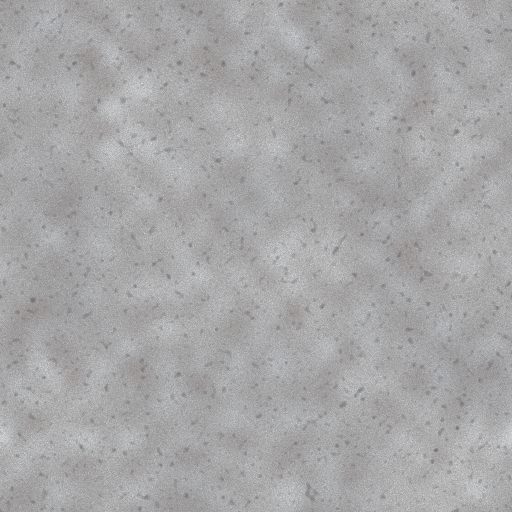
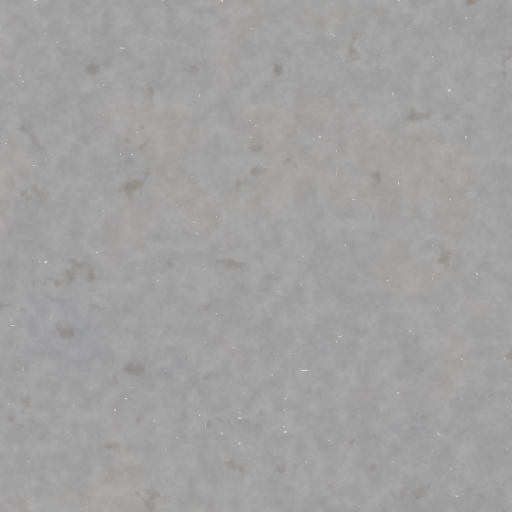
Give the black sand finer grain and tonal breakup.
The beach albedo was one even charcoal. The rebuilt maps add cool and warm patches, fine grain, and scattered lighter grains without touching the height data.

diff --git a/tools/bake_black_sand.py b/tools/bake_black_sand.py
@@ -1,0 +1,106 @@
+#!/usr/bin/env python3
+"""Rebuild the black-sand albedo/height and normal/roughness maps.
+
+Punalu'u-style basalt sand: charcoal with cool and warm patches, fine grain,
+and scattered lighter grains. Alpha of the albedo map is height. Alpha of the
+normal map is roughness. Deterministic; does not touch terrain height data.
+"""
+
+from pathlib import Path
+
+import numpy as np
+from PIL import Image
+
+SIZE = 512
+OUT = Path("/workspace/materials/surfaces")
+
+
+def hash2(ix: np.ndarray, iy: np.ndarray, seed: int) -> np.ndarray:
+    n = (ix.astype(np.uint32) * np.uint32(374761393)) ^ (
+        iy.astype(np.uint32) * np.uint32(668265263)
+    ) ^ np.uint32(seed * 1442695041)
+    n = (n ^ (n >> np.uint32(13))) * np.uint32(1274126177)
+    n = n ^ (n >> np.uint32(16))
+    return (n & np.uint32(0xFFFFFF)).astype(np.float32) / np.float32(0xFFFFFF)
+
+
+def value_noise(x: np.ndarray, y: np.ndarray, seed: int) -> np.ndarray:
+    xi = np.floor(x).astype(np.int32)
+    yi = np.floor(y).astype(np.int32)
+    xf = x - xi
+    yf = y - yi
+    xf = xf * xf * (3.0 - 2.0 * xf)
+    yf = yf * yf * (3.0 - 2.0 * yf)
+    a = hash2(xi, yi, seed)
+    b = hash2(xi + 1, yi, seed)
+    c = hash2(xi, yi + 1, seed)
+    d = hash2(xi + 1, yi + 1, seed)
+    return a + (b - a) * xf + (c - a) * yf + (a - b - c + d) * xf * yf
+
+
+def fbm(x: np.ndarray, y: np.ndarray, seed: int, octaves: int = 5) -> np.ndarray:
+    value = np.zeros_like(x, dtype=np.float32)
+    amp = 0.5
+    freq = 1.0
+    total = 0.0
+    for i in range(octaves):
+        value += amp * value_noise(x * freq, y * freq, seed + i * 19)
+        total += amp
+        amp *= 0.5
+        freq *= 2.03
+    return value / total
+
+
+def main() -> None:
+    yy, xx = np.mgrid[0:SIZE, 0:SIZE].astype(np.float32)
+    u = xx / SIZE
+    v = yy / SIZE
+
+    macro = fbm(u * 3.0, v * 3.0, 4)
+    meso = fbm(u * 9.0, v * 9.0, 11)
+    grain = fbm(u * 48.0, v * 48.0, 21, octaves=3)
+    fine = fbm(u * 140.0, v * 140.0, 33, octaves=2)
+    pebbles = fbm(u * 22.0, v * 22.0, 51, octaves=4)
+
+    # Charcoal, slightly blue in the hollows and slightly warm on the grains.
+    cool = np.array([22.0, 24.0, 30.0], dtype=np.float32)
+    mid = np.array([34.0, 32.0, 31.0], dtype=np.float32)
+    warm = np.array([52.0, 42.0, 34.0], dtype=np.float32)
+    tone = meso[..., None]
+    rgb = cool + (mid - cool) * np.clip(macro * 1.35, 0.0, 1.0)[..., None]
+    rgb = rgb + (warm - mid) * np.clip((tone - 0.45) * 1.4, 0.0, 1.0)
+    rgb *= 0.82 + 0.36 * grain[..., None]
+    rgb += (fine[..., None] - 0.5) * 10.0
+
+    speck = np.clip((pebbles - 0.72) / 0.18, 0.0, 1.0)
+    pebble_col = np.array([118.0, 104.0, 90.0], dtype=np.float32)
+    rgb = rgb * (1.0 - speck[..., None] * 0.65) + pebble_col * speck[..., None] * 0.65
+    # A few brighter mineral flecks.
+    fleck = np.clip((fbm(u * 90.0, v * 90.0, 70, octaves=2) - 0.86) / 0.1, 0.0, 1.0)
+    rgb = np.maximum(rgb, fleck[..., None] * np.array([150.0, 140.0, 128.0], dtype=np.float32))
+    rgb = np.clip(rgb, 8.0, 190.0)
+
+    height = 0.42 + (grain - 0.5) * 0.10 + (fine - 0.5) * 0.05 + speck * 0.22
+    height = np.clip(height, 0.12, 0.92)
+
+    albedo = np.dstack([rgb, height * 255.0]).astype(np.uint8)
+    Image.fromarray(albedo, mode="RGBA").save(OUT / "BlackSand_AH.png")
+
+    # Standard tangent-space normal from the height field, plus roughness.
+    strength = 2.4 + speck * 3.5
+    dx = (np.roll(height, -1, axis=1) - np.roll(height, 1, axis=1)) * strength
+    dy = (np.roll(height, -1, axis=0) - np.roll(height, 1, axis=0)) * strength
+    nx = -dx
+    ny = dy
+    nz = np.ones_like(height)
+    inv = 1.0 / np.sqrt(nx * nx + ny * ny + nz * nz)
+    normal = np.dstack([(nx * inv * 0.5 + 0.5) * 255.0, (ny * inv * 0.5 + 0.5) * 255.0, (nz * inv * 0.5 + 0.5) * 255.0])
+    rough = 214.0 - speck * 55.0 - (grain - 0.5) * 18.0
+    rough = np.clip(rough, 150.0, 242.0)
+    nrm = np.dstack([normal, rough]).astype(np.uint8)
+    Image.fromarray(nrm, mode="RGBA").save(OUT / "BlackSand_NR.png")
+    print("wrote black sand", albedo.shape, "rgb mean", rgb.mean(axis=(0, 1)), "rough mean", rough.mean())
+
+
+if __name__ == "__main__":
+    main()
